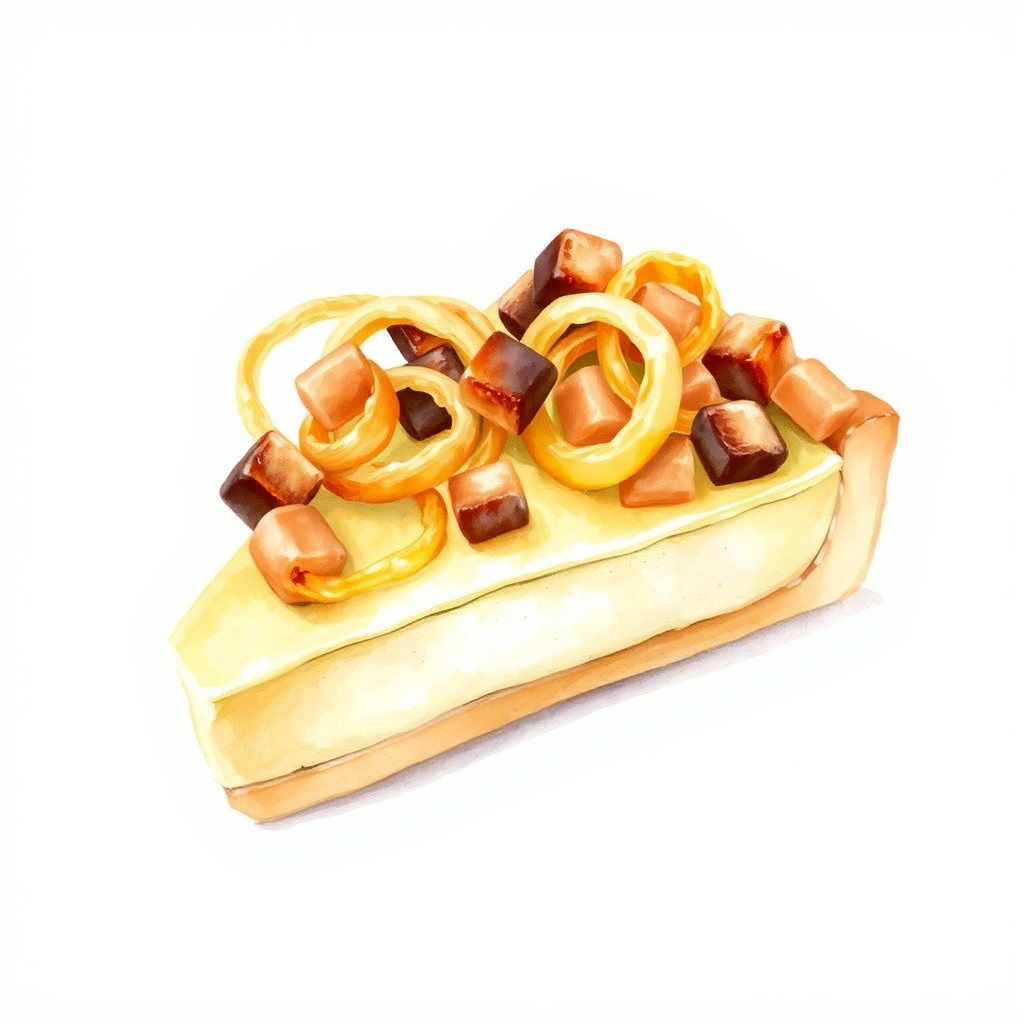
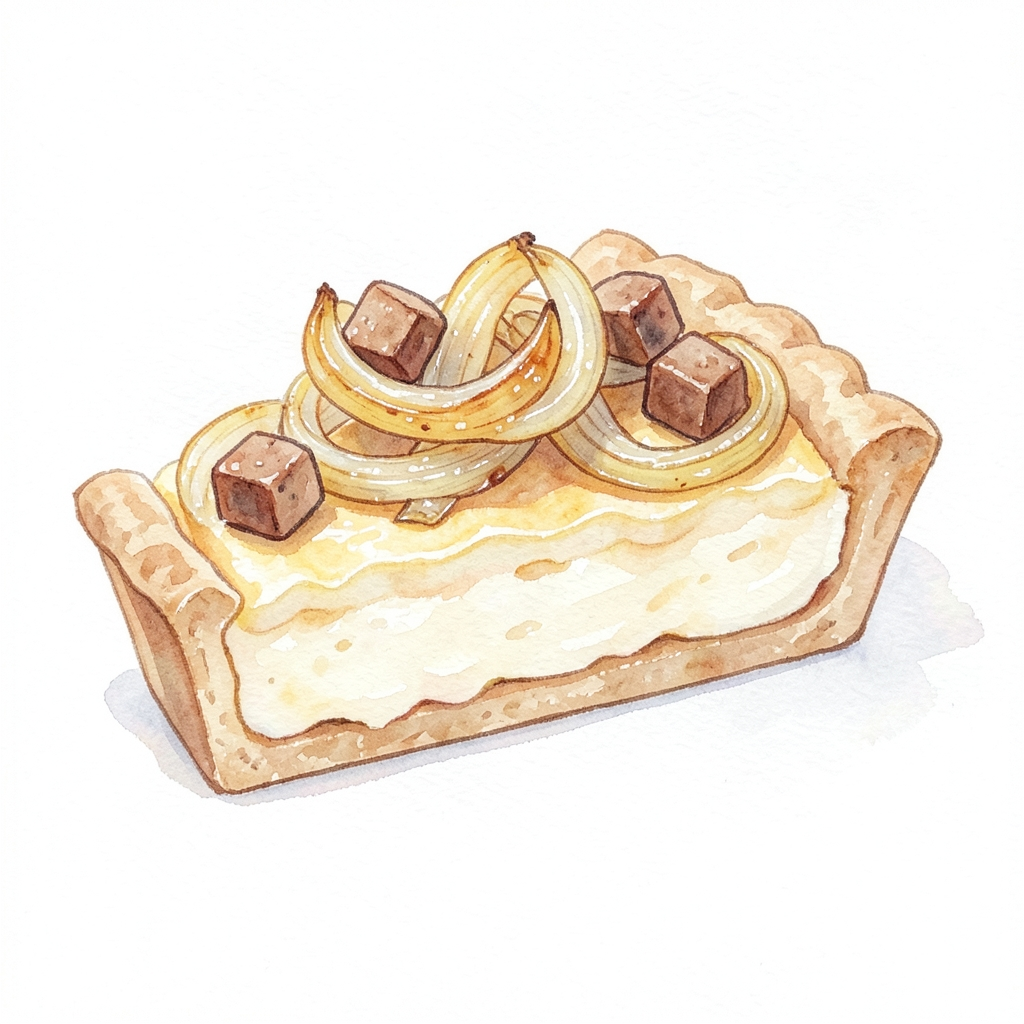
Auto-Fit: Schrift verkleinert sich, damit Vorder-/Rückseite je 1 Seite bleiben
- render.ts: iterative Mess-Schleife (rendern → <pageinfo> abfragen → Schrift
  der überlaufenden Seite in Schritten verkleinern), Untergrenze 70%
- card.typ: scale_front/scale_back skalieren Zutaten- bzw. Zubereitungs-Schrift
  unabhängig; gibt front-/total-Seiten als <pageinfo> aus
- cli.ts: zeigt "Schrift auf X% verkleinert" an

Neue Rezepte: Veganes Chili sin Carne, Rhabarberkuchen mit Streusel (+ Bilder);
aktualisierte Bilder: Kaiserschmarrn, Zwiebelkuchen.

Changed region(s): [[0.0625, 0.2188, 0.9375, 0.8125]]

diff --git a/src/render.ts b/src/render.ts
@@ -118,22 +118,35 @@ export interface RenderResult {
   slug: string;
   pdfPath: string;
   pages: number;
+  /** Angewandte Auto-Fit-Skalierung (1 = unverändert). */
+  scaleFront: number;
+  scaleBack: number;
 }
 
-/** Fragt die finale Seitenzahl über das <pagecount>-Metadatum des Templates ab. */
-function queryPageCount(typPath: string, projectRoot: string): number {
+interface PageInfo {
+  front: number; // Seite, auf der die Vorderseite endet
+  total: number; // Gesamtseitenzahl
+}
+
+/** Liest das <pageinfo>-Metadatum (Vorderseiten-Endseite + Gesamtseiten). */
+function queryPageInfo(typPath: string, projectRoot: string): PageInfo {
   try {
     const out = execFileSync(
       "typst",
-      ["query", "--root", projectRoot, typPath, "<pagecount>", "--field", "value", "--one"],
+      ["query", "--root", projectRoot, typPath, "<pageinfo>", "--field", "value", "--one"],
       { stdio: ["ignore", "pipe", "pipe"] },
     ).toString();
-    const n = Number(JSON.parse(out));
-    return Number.isFinite(n) ? n : 0;
+    const v = JSON.parse(out) as { front?: number; total?: number };
+    const front = Number(v.front);
+    const total = Number(v.total);
+    return { front: Number.isFinite(front) ? front : 1, total: Number.isFinite(total) ? total : 0 };
   } catch {
-    return 0; // unbekannt
+    return { front: 1, total: 0 };
   }
 }
+
+const MIN_SCALE = 0.7; // nicht kleiner skalieren (Lesbarkeit)
+const SCALE_STEP = 0.05;
 
 export function renderCard(
   recipe: Recipe,
@@ -146,25 +159,44 @@ export function renderCard(
 
   const data = buildCardData(recipe, scale, { slug, projectRoot });
   const jsonPath = join(buildDir, `${slug}.json`);
-  writeFileSync(jsonPath, JSON.stringify(data, null, 2), "utf8");
 
   // Typst-Pfade mit führendem "/" werden relativ zu --root aufgelöst.
   const jsonRootPath = "/" + relative(projectRoot, jsonPath).split(sep).join("/");
-
   const typPath = join(buildDir, `${slug}.typ`);
   writeFileSync(
     typPath,
     `#import "/templates/card.typ": card\n#card(json(${JSON.stringify(jsonRootPath)}))\n`,
     "utf8",
   );
-
   const pdfPath = join(outDir, `${slug}.pdf`);
-  execFileSync(
-    "typst",
-    ["compile", "--root", projectRoot, typPath, pdfPath],
-    { stdio: ["ignore", "ignore", "pipe"] },
-  );
 
-  const pages = queryPageCount(typPath, projectRoot);
-  return { slug, pdfPath, pages };
+  const round2 = (n: number) => Math.round(n * 100) / 100;
+  const compileWith = (sf: number, sb: number): PageInfo => {
+    writeFileSync(jsonPath, JSON.stringify({ ...data, scale_front: sf, scale_back: sb }, null, 2), "utf8");
+    execFileSync("typst", ["compile", "--root", projectRoot, typPath, pdfPath], {
+      stdio: ["ignore", "ignore", "pipe"],
+    });
+    return queryPageInfo(typPath, projectRoot);
+  };
+
+  // Auto-Fit: Schrift pro Seite schrittweise verkleinern, bis Vorder- und
+  // Rückseite je genau eine Seite belegen (bis zur Mindestgröße).
+  let sf = 1;
+  let sb = 1;
+  let info = compileWith(sf, sb);
+  for (let guard = 0; guard < 16; guard++) {
+    if (info.front > 1 && sf > MIN_SCALE) {
+      sf = Math.max(MIN_SCALE, round2(sf - SCALE_STEP));
+      info = compileWith(sf, sb);
+      continue;
+    }
+    if (info.total - info.front > 1 && sb > MIN_SCALE) {
+      sb = Math.max(MIN_SCALE, round2(sb - SCALE_STEP));
+      info = compileWith(sf, sb);
+      continue;
+    }
+    break;
+  }
+
+  return { slug, pdfPath, pages: info.total, scaleFront: sf, scaleBack: sb };
 }

diff --git a/src/cli.ts b/src/cli.ts
@@ -94,13 +94,19 @@ function main(): void {
     }
 
     try {
-      const { pdfPath, pages } = renderCard(recipe, { projectRoot: PROJECT_ROOT, outDir, scale });
+      const { pdfPath, pages, scaleFront, scaleBack } = renderCard(recipe, {
+        projectRoot: PROJECT_ROOT,
+        outDir,
+        scale,
+      });
       const pageInfo = pages > 0 ? ` (${pages} ${pages === 1 ? "Seite" : "Seiten"})` : "";
+      const minScale = Math.min(scaleFront, scaleBack);
+      const fitNote = minScale < 1 ? ` · Schrift auf ${Math.round(minScale * 100)}% verkleinert` : "";
       if (pages > 2) {
         console.log(`⚠ ${recipe.meta.title}${pageInfo} → ${pdfPath}  [über 2 Seiten – bitte kürzen]`);
         overlong++;
       } else {
-        console.log(`✓ ${recipe.meta.title}${pageInfo} → ${pdfPath}`);
+        console.log(`✓ ${recipe.meta.title}${pageInfo}${fitNote} → ${pdfPath}`);
       }
       rendered++;
     } catch (err) {

diff --git a/recipes/2 kochen/veganes-chili-sin-carne.md b/recipes/2 kochen/veganes-chili-sin-carne.md
@@ -1,0 +1,69 @@
+---
+title: Veganes Chili sin Carne
+tags:
+  - eintopf
+  - vegan
+  - chili
+  - sojaschnetzel
+category: kochen
+grouping:
+prep_time: 20
+cook_time: 45
+rest_time: 30
+servings: 5
+equipment:
+  - Schüssel
+  - Großer Topf
+  - Messer
+  - Schneidebrett
+  - Sieb
+difficulty: medium
+source_url: https://www.zuckerjagdwurst.com/de/rezepte/veganes-chili-sin-carne
+theme_color:
+image_subject: a bowl of vegan chili sin carne topped with yogurt and fresh coriander
+last_modified: 2026-05-25
+---
+# Veganes Chili sin Carne
+
+## Zutaten
+
+### Für das Chili
+- 15 g getrocknete Pilze (z. B. Shiitake oder Steinpilze)
+- 125 g Sojaschnetzel
+- 400 g Süßkartoffel
+- 2 Zwiebeln
+- 50 g Knollensellerie
+- 2 Möhren
+- 1 Chilischote
+- 2 Knoblauchzehen
+- 400 g schwarze Bohnen (1 Dose)
+- 400 g weiße Bohnen (1 Dose)
+- 50 g Walnüsse
+- 2 EL Sojasauce
+- 2 EL getrockneter Oregano
+- 1 EL getrockneter Basilikum
+- 1 EL gemahlener Kreuzkümmel
+- 1 EL rosenscharfes Paprikapulver
+- 150 g Tomatenmark
+- 2 EL Ahornsirup
+- 100 ml veganer Rotwein
+- 800 g gehackte Tomaten (2 Dosen)
+- etwas Gemüsebrühe
+
+### Zum Servieren
+- 1 rote Zwiebel
+- 2 Lauchzwiebeln
+- 1 Bund frischer Koriander
+- 1 Becher pflanzlicher Joghurt
+
+## Schritte
+1. Die **getrockneten Pilze** in einer Schüssel mit **500 ml warmem Wasser** übergießen und mindestens **30 Minuten** einweichen lassen. Die **Sojaschnetzel** in einer separaten Schüssel mit heißer **Gemüsebrühe** bedecken und **15 Minuten** quellen lassen.
+2. In der Zwischenzeit **Süßkartoffel**, **Zwiebeln**, **Knollensellerie** und **Möhren** schälen und fein würfeln. Die **Chilischote** entkernen und hacken. Den **Knoblauch** abziehen und fein hacken. Beide **Bohnensorten** in ein Sieb abgießen und abspülen. Die **Walnüsse** grob hacken.
+3. Die eingeweichten **Pilze** aus dem Wasser nehmen (den Pilzsud unbedingt aufbewahren!) und in kleine Stücke schneiden.
+4. Die **Sojaschnetzel** abgießen, die überschüssige Flüssigkeit gründlich ausdrücken und die Schnetzel kräftig mit **Salz** und **Pfeffer** würzen.
+5. Etwas **Öl** in einem großen Topf erhitzen. Die **Sojaschnetzel** darin ca. **3-4 Minuten** scharf anbraten. Mit der **Sojasauce** ablöschen und weitere **1-2 Minuten** braten.
+6. **Zwiebeln**, **Knoblauch**, **Chili**, **Oregano**, **Basilikum**, **Kreuzkümmel** und **Paprikapulver** hinzufügen und alles ca. **3-4 Minuten** dünsten, bis die Zwiebeln glasig sind. **Tomatenmark** und **Ahornsirup** einrühren und für **2-3 Minuten** mitrösten.
+7. **Süßkartoffel**, **Sellerie**, **Pilze** und **Möhren** dazugeben und **5 Minuten** mitgaren. Mit dem **Rotwein** ablöschen.
+8. Die **gehackten Tomaten**, die abgetropften **Bohnen** und den aufgehobenen **Pilzsud** in den Topf gießen. Alles einmal aufkochen lassen und anschließend bei mittlerer Hitze abgedeckt ca. **30 Minuten** köcheln lassen. Nach **15 Minuten** die gehackten **Walnüsse** unterrühren. Bei Bedarf etwas **Gemüsebrühe** nachgießen.
+9. Währenddessen die **rote Zwiebel** fein würfeln, die **Lauchzwiebeln** in feine Ringe schneiden und den **Koriander** grob hacken.
+10. Das fertige Chili mit den vorbereiteten Toppings und einem Klecks **pflanzlichem Joghurt** garniert servieren.

diff --git a/recipes/3 backen/rhabarberkuchen-mit-streusel.md b/recipes/3 backen/rhabarberkuchen-mit-streusel.md
@@ -1,0 +1,56 @@
+---
+title: Rhabarberkuchen mit Streusel
+tags:
+  - rhabarber
+  - streuselkuchen
+  - kuchen
+  - frühling
+category: backen
+grouping:
+prep_time: 20
+cook_time: 45
+rest_time:
+servings: 12
+equipment:
+  - Springform (24 cm)
+  - Backpapier
+  - Handmixer oder Küchenmaschine
+  - Pfanne
+difficulty: easy
+source_url: https://emmikochteinfach.de/einfacher-rhabarber-streuselkuchen/
+theme_color:
+image_subject: a rustic rhubarb crumble cake in a springform pan
+last_modified: 2026-05-24
+---
+
+# Rhabarberkuchen mit Streusel
+
+## Zutaten
+
+### Für die Streusel (Boden und Topping)
+- 150 g kalte Butter (Süßrahmbutter)
+- 150 g Zucker
+- 300 g Weizenmehl (oder Dinkelmehl Type 630)
+
+### Für den Belag
+- 800 g Rhabarber (ungeputzt)
+- 6 EL Zucker
+- 2 EL Speisestärke
+- 1 TL Butter
+- 1 Päckchen Vanillezucker
+
+## Schritte
+1. Den Backofen auf **180 Grad Ober-/Unterhitze** vorheizen. Eine **Springform (24 cm)** mit **Backpapier** auslegen und den Rand leicht einfetten.
+2. Aus **300 g Weizenmehl**, **150 g kalter Butter** und **150 g Zucker** mit dem Mixer oder den Händen einen krümeligen Streuselteig herstellen. Den Teig kurz mit den Händen zu Streuseln festkneten und kalt stellen.
+3. Den **Rhabarber (800 g)** waschen, putzen und in fingerbreite Stücke schneiden.
+4. In einer Pfanne **1 TL Butter** schmelzen. Den Rhabarber mit **6 EL Zucker** darin kurz karamellisieren lassen.
+5. **2 EL Speisestärke** unterrühren und die Masse auf niedriger Stufe für ca. **2 Minuten** leicht köcheln lassen, um den Saft zu binden.
+6. Zwei Drittel der Streuselmasse fest auf dem Boden der Springform andrücken, sodass ein kompakter Boden entsteht.
+7. Die Rhabarbermischung auf dem Boden verteilen und mit **1 Päckchen Vanillezucker** bestreuen.
+8. Das restliche Drittel der Streusel als Topping über dem Rhabarber verteilen.
+9. Den Kuchen auf mittlerer Schiene für ca. **45 Minuten** backen.
+
+## Hinweise
+- Echte Markenbutter (Süßrahmbutter) verwenden, keine streichzarten Mischprodukte, damit die Streusel gelingen.
+- Den Rhabarber nicht schälen, damit die schöne rote Farbe beim Backen erhalten bleibt.
+- Der Kuchen schmeckt lauwarm besonders gut, idealerweise serviert mit Schlagsahne oder Vanilleeis.